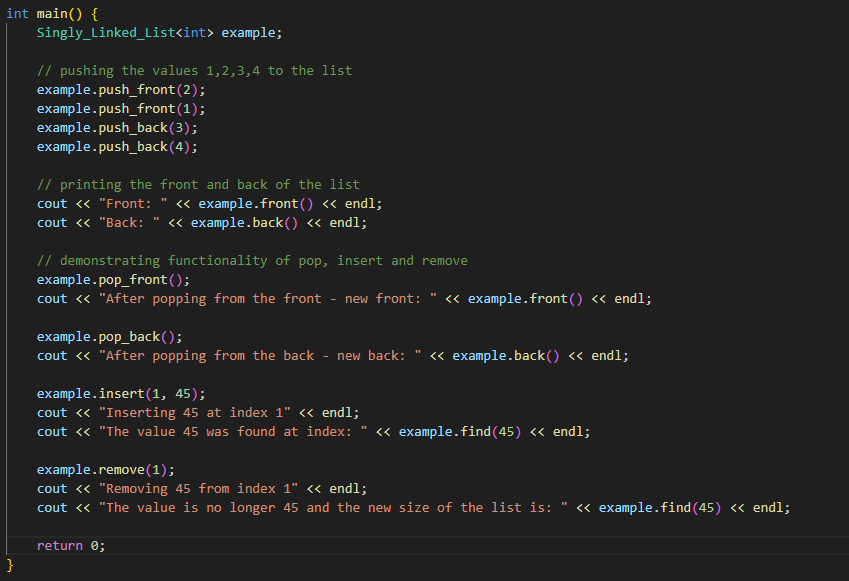
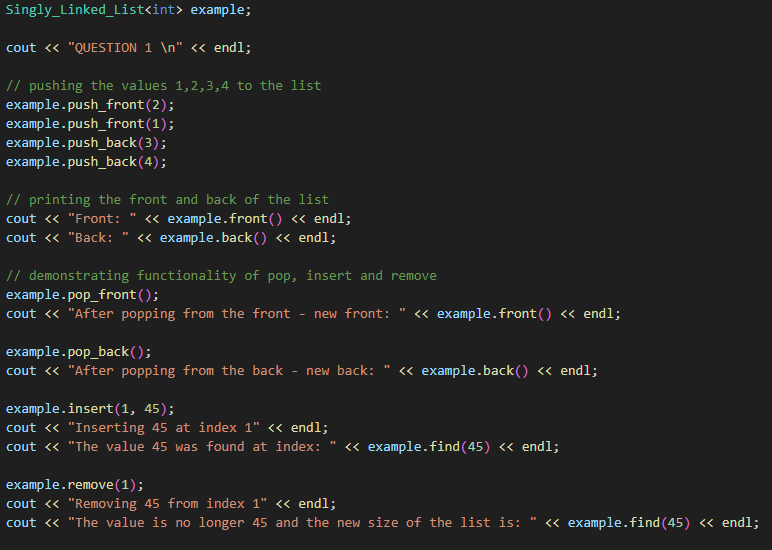
Finishing touches for Assingment 2 - Question 2

diff --git a/source/main.cpp b/source/main.cpp
@@ -9,6 +9,8 @@ using namespace std;
 int main() {
     Singly_Linked_List<int> example;
 
+    cout << "QUESTION 1 \n" << endl;
+
     // pushing the values 1,2,3,4 to the list
     example.push_front(2);
     example.push_front(1);
@@ -36,6 +38,8 @@ int main() {
 
 
     KiriStack exampleStack;
+
+    cout << "\nQUESTION 2 \n" << endl;
 
     // demonstrating the functionality of isEmpty
     cout << "Checking if the stack is empty - " << (exampleStack.isEmpty() ? "It's empty" : "Not empty") << endl;

diff --git a/headers/my-stack.h b/headers/my-stack.h
@@ -16,7 +16,7 @@ public:
     int pop();
     bool isEmpty();
     int top();
-    double average();
+    int average();
 };
 
 #endif

diff --git a/README.MD b/README.MD
@@ -1,16 +1,19 @@
 # Comp-Sci 303 - Assignment 1
 
-This is a simple program that creates a singly linked list that mimics the functionality of the standard template library linked list.
+There are two programs included in this assignment. The first creates a singly linked list that mimics the functionality of the standard template library linked list. The second uses a vector to create and demonstrate the functionality of a stack.
 
-The function declarations can be found in the my-singly-linked-list.h Header file.
+The function declarations can be found in the my-singly-linked-list.h and my-stack.h Header files.
 
-The function definitions can be found in the my-singly-linked-list.cpp file
+The function definitions can be found in the my-singly-linked-list.cpp and my-stack.cpp files.
 
 In order to run the code you can use a compiler of your choice to compile the code in the main.cpp file and run it with the example input given below.
 Your build may finish with some warnings. I am still looking into the warning messages but the code runs just fine with the current example input.
 
-## Example Input
+## Example Input - Question 1
 ![image](resources/example-input.PNG)
+
+## Example Input - Question 2
+![image](resources/example-input-2.PNG)
 
 ## Example Output
 ![image](resources/example-output.PNG)
